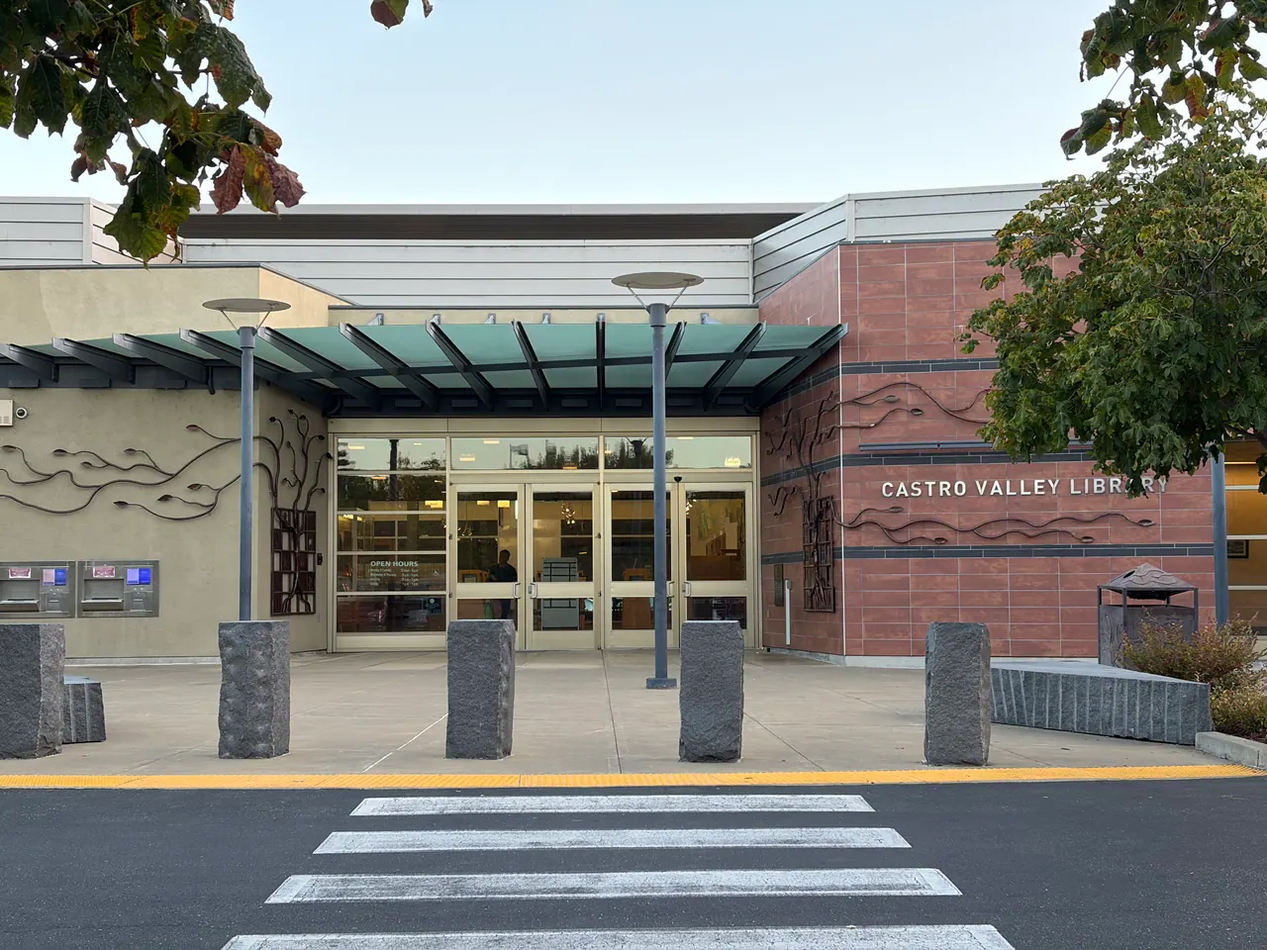
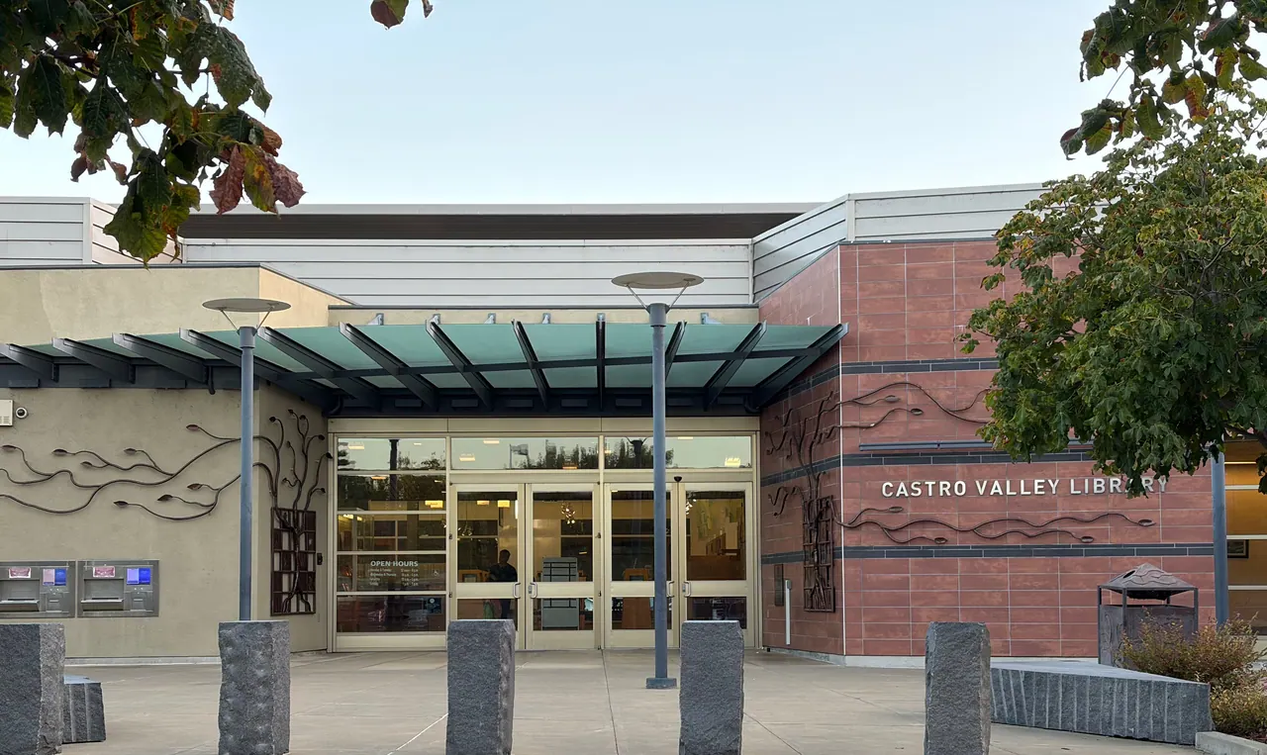
UI9-IMG-B2 review: approved crops, weak lead scenes, record drops, SF Main replaces the 2013 atrium on SFPL offers
- Five masters re-made from the lane's originals (no new download) with the framing the approval asks for: LumaFest altar
  3:2 (blown window cut), Danville scarecrow 3:2, Castro Valley without the crosswalk, Dimond without the road and the
  SIDEWALK CLOSED sign, the string-light tunnel at 16:9. Every rung now fits the budgets: the three new exceptions are gone,
  the cap is back at 25 and the tunnel leaves HEAVY_STOCK.
- Brisbane, Atherton and Calabazas venue photos ("cards and rows only", approval 31-33) join WEAK_LEAD_SCENES.
- record-photo-pins.json gains `drops` (pool pictures one record never takes): Windsor -4/-1, Cherryland storytime-4, and
  the two health guides never take each other's picture (second pictures pinned); Danville's ③ starts with the scarecrows.
- SFPL Discover & Go and radon-detector offers show venue-sf-main-library (2026) instead of the 2013 atrium; the SJPL
  Booktacular offer no longer shows the SF Main Library (its pool instead).
- Fruitvale caption no longer names who took the photo; the approval reference drops its local path.
- tests: record-photo-pins (order, cap, pin-only, live refs, health guides); weak scenes; close-up variable renamed.

(cherry picked from commit 275087b5a6b317f151a5a4d0278ca0276a80590c)

diff --git a/tests/record-photo-pins.test.ts b/tests/record-photo-pins.test.ts
@@ -1,0 +1,97 @@
+import assert from 'node:assert/strict';
+import { readFileSync } from 'node:fs';
+import test from 'node:test';
+import { COVER_TABLES, coverCandidates, idSpot, type CoverTables } from '../src/lib/cover-candidates';
+import { GUIDE_IMAGES } from '../src/data/guide-media';
+import pinFile from '../src/data/record-photo-pins.json';
+
+// UI9-IMG-B2 (review 10-23): record pins and drops (src/data/record-photo-pins.json). A pin with a typo, the wrong kind or a
+// renamed record does nothing at all, so the data is held against the live catalogs here.
+const tables: CoverTables = {
+  venues: [{ id: 'cupertino-library', name: 'Cupertino Library', match: ['Cupertino 图书馆'], imageKeys: ['venue-a'], approvedAt: '2026-10-23', ownerQuote: 'test' }],
+  categories: { storytime: ['s1', 's2', 's3', 's4'] },
+  ai: [{ key: 'ai-1', for: ['category:storytime'] }],
+  pins: { 'event:e1': ['pin-1', 'pin-2', 's3'] },
+  drops: { 'event:e1': ['s4'], 'event:e2': ['s1'] },
+};
+const story = { id: 'e1', title: 'Cupertino 图书馆周六亲子故事时间', venue: 'Cupertino 图书馆 101 室', category: 'family', imageKey: 'own' };
+
+test('① own → ② venue → pinned ③ → the rotated pool less its drops → ④', () => {
+  const keys = coverCandidates('event', story, tables);
+  assert.deepEqual(keys.slice(0, 5), ['own', 'venue-a', 'pin-1', 'pin-2', 's3'], 'pins come after ① and ②, in their order');
+  assert.deepEqual(keys.slice(5, 7).sort(), ['s1', 's2'], 'then the pool, each key once, without the dropped s4');
+  assert.deepEqual(keys.slice(7), ['ai-1']);
+  assert.ok(!keys.includes('s4'), 'a dropped pool picture never shows on that record');
+  // The pool's rotation starts on the pool less the drops.
+  const other = coverCandidates('event', { ...story, id: 'e2', imageKey: undefined }, tables);
+  assert.deepEqual(other.slice(0, 1), ['venue-a']);
+  assert.equal(other[1], ['s2', 's3', 's4'][idSpot('e2', 3)]);
+  assert.ok(!other.includes('s1') && !other.includes('pin-1'), 'drops and pins belong to their own record only');
+});
+
+test('pinned pictures do not count against the route\'s stock cap, and a pin-only picture never enters a pool', () => {
+  const capped = coverCandidates('event', story, { ...tables, pins: { 'event:e1': ['pin-1', 'pin-2'] } }, { stock: 1 });
+  assert.deepEqual(capped.slice(0, 4), ['own', 'venue-a', 'pin-1', 'pin-2']);
+  assert.equal(capped.length, 5, 'both pins plus one pool picture, and no ④ on a capped list');
+  assert.ok(['s1', 's2', 's3'].includes(capped[4]));
+  const pools = new Set(Object.values(COVER_TABLES.categories).flat());
+  for (const key of ['stock-lantern-1', 'stock-campus-open-day-1', 'stock-muni-1', 'stock-muni-2', 'stock-dumplings-1', 'stock-dumplings-2']) {
+    assert.ok(!pools.has(key), `${key}: pin-only, in no shared pool`);
+    assert.ok(Object.values(pinFile.pins).some(keys => keys.includes(key)), `${key}: pinned to a record`);
+  }
+});
+
+type Listed = { id: string; title?: string; category?: string; imageKey?: string; imageKeys?: string[] };
+const read = <T>(file: string) => JSON.parse(readFileSync(`src/data/generated/${file}`, 'utf8')) as T;
+const index = read<{ events: Listed[] }>('events-index.json');
+const later = read<{ events: Listed[] }>('events-later.json');
+const boards = read<{ offers: Listed[]; openings: Listed[] }>('events-boards.json');
+const guides = read<{ guides: (Listed & { slug: string })[] }>('guides-index.json').guides;
+const live: Record<string, Map<string, Listed>> = {
+  event: new Map([...later.events, ...index.events].map(event => [event.id, event])),
+  offer: new Map(boards.offers.map(offer => [offer.id, offer])),
+  opening: new Map(boards.openings.map(opening => [opening.id, opening])),
+  guide: new Map(guides.map(guide => [guide.slug, { ...guide, id: guide.slug }])),
+};
+const recordOf = (ref: string) => {
+  const [kind, id] = ref.split(/:(.*)/s);
+  return { kind, record: live[kind]?.get(id) };
+};
+
+test('every pin and drop names a live record and a registered stock picture; every pin reaches the catalogs', () => {
+  const tables = pinFile as { pins: Record<string, string[]>; drops: Record<string, string[]> };
+  assert.ok(Object.keys(tables.pins).length >= 17 && Object.keys(tables.drops).length >= 4);
+  for (const [ref, keys] of [...Object.entries(tables.pins), ...Object.entries(tables.drops)]) {
+    const { kind, record } = recordOf(ref);
+    assert.ok(record, `${ref}: a live ${kind} record`);
+    assert.ok(keys.length && new Set(keys).size === keys.length, `${ref}: keys listed once`);
+    for (const key of keys) assert.equal(GUIDE_IMAGES[key]?.rights?.basis, 'stock', `${ref}: ${key} is a registered stock (③) picture`);
+  }
+  for (const [ref, keys] of Object.entries(tables.pins)) {
+    const { kind, record } = recordOf(ref);
+    if (kind === 'guide') continue;
+    assert.ok(record!.imageKeys?.includes(keys[0]), `${ref}: the catalog ships its first pinned picture`);
+  }
+  for (const [ref, keys] of Object.entries(tables.drops)) {
+    const { kind, record } = recordOf(ref);
+    if (kind === 'guide') continue;
+    for (const key of keys) assert.ok(!record!.imageKeys?.includes(key), `${ref}: ${key} is dropped from its pictures`);
+  }
+});
+
+test('/guides (#68 live check): the Medicare guide shows pills, the dental guide the dental chair, never each other\'s', () => {
+  const candidates = (slug: string) => {
+    const guide = live.guide.get(slug)!;
+    return coverCandidates('guide', { id: slug, title: guide.title, category: guide.category });
+  };
+  const medicare = candidates('bay-area-medicare-hicap-medi-cal-guide');
+  const dental = candidates('bay-area-dental-care-insurance-low-cost-guide');
+  assert.equal(medicare[0], 'stock-guide-health-3');
+  assert.equal(dental[0], 'stock-guide-health-2');
+  assert.ok(!medicare.includes('stock-guide-health-2'), 'no dental chair on the Medicare guide');
+  assert.ok(!dental.includes('stock-guide-health-3'), 'no pills on the dental guide');
+  for (const [slug, key] of [['bay-area-medicare-hicap-medi-cal-guide', 'stock-guide-health-3'], ['bay-area-dental-care-insurance-low-cost-guide', 'stock-guide-health-2']]) {
+    const cover = (live.guide.get(slug) as unknown as { covers: Record<string, { src: string }> }).covers['zh-Hans'];
+    assert.ok(cover.src.endsWith(`/${key}.webp`), `${slug}: its built cover is ${key}`);
+  }
+});

diff --git a/src/lib/cover-candidates.ts b/src/lib/cover-candidates.ts
@@ -11,8 +11,9 @@ import type { CoverKind } from './cover';
  * tables are arguments with the reviewed files as defaults.
  *   ① the record's own image (`imageKey`)
  *   ② its venue's approved photos (src/data/venue-photos.json, approved once per venue)
- *   ③ the stock pictures pinned to this very record (src/data/record-photo-pins.json), then its photo category's stock
- *     pictures (src/data/category-photos.json), starting at a spot fixed by the record id
+ *   ③ the stock pictures pinned to this very record (src/data/record-photo-pins.json `pins`), then its photo category's
+ *     stock pictures (src/data/category-photos.json) less the ones dropped for this record (`drops`), starting at a spot
+ *     fixed by the record id
  *   ④ AI illustrations the owner approved for this record or its category (src/data/ai-cover-approvals.json `for`)
  * Whether each candidate may be shown (rights, age, page de-duplication) is still cover.ts getCover's call.
  */
@@ -31,6 +32,8 @@ export type CoverTables = {
   ai: readonly { key: string; for?: readonly string[] }[];
   /** ③ pictures pinned to one record ('<kind>:<id>'), shown before its category's pool (UI9-IMG-B2). */
   pins?: Readonly<Record<string, readonly string[]>>;
+  /** Pool pictures one record ('<kind>:<id>') never takes (UI9-IMG-B2 review: a reviewed fallback order that drops some). */
+  drops?: Readonly<Record<string, readonly string[]>>;
 };
 
 export const COVER_TABLES: CoverTables = {
@@ -38,6 +41,7 @@ export const COVER_TABLES: CoverTables = {
   categories: (categoryPhotoFile as { categories: Partial<Record<PhotoCategoryId, string[]>> }).categories,
   ai: (aiCoverApprovalFile as { approvals: { key: string; for?: string[] }[] }).approvals,
   pins: (recordPhotoPinFile as { pins: Record<string, string[]> }).pins,
+  drops: (recordPhotoPinFile as { drops: Record<string, string[]> }).drops,
 };
 
 /** The fields the candidates read: the record's id and own image, and the text that names its venue. */
@@ -59,7 +63,7 @@ export function venuesFor(kind: CoverKind, record: CandidateRecord, venues: Cove
 }
 
 /** Stock pictures over the image budgets' rungs (verify:images: 800 w ≤ 90 KB, 1200 w ≤ 150 KB): every other picture first. */
-export const HEAVY_STOCK: ReadonlySet<string> = new Set(['stock-halloween-5', 'stock-winter-holidays-8']);
+export const HEAVY_STOCK: ReadonlySet<string> = new Set(['stock-halloween-5']);
 
 /**
  * Macro and texture stock (UI9-R2, round-2 judge B P15 and owner material #2): a pattern or a close-up detail with no scene
@@ -140,9 +144,11 @@ export function coverCandidates(kind: CoverKind, record: CandidateRecord, tables
   const ownIsAi = !!record.imageKey && tables.ai.some(approval => approval.key === record.imageKey);
   if (!ownIsAi) add(record.imageKey);
   for (const venue of venuesFor(kind, record, tables.venues)) venue.imageKeys.forEach(add);
-  tables.pins?.[`${kind}:${record.id}`]?.forEach(add);
+  const ref = `${kind}:${record.id}`;
+  tables.pins?.[ref]?.forEach(add);
   const category = photoCategoryOf(kind, record);
-  const pool = category ? tables.categories[category] ?? [] : [];
+  const dropped = tables.drops?.[ref];
+  const pool = (category ? tables.categories[category] ?? [] : []).filter(key => !dropped?.includes(key));
   const start = (limits.start ?? idSpot(record.id, pool.length)) % (pool.length || 1);
   // A pool picture whose files miss the 800 w / 1200 w size targets goes after the others (B1b review: stock-halloween-5).
   const rotated = pool.map((_, i) => pool[(start + i) % pool.length]);
@@ -152,7 +158,7 @@ export function coverCandidates(kind: CoverKind, record: CandidateRecord, tables
   // A capped list (what a route ships) carries ④ only for a record whose category has no ③ picture.
   if (shown && stock !== Infinity) return keys;
   if (ownIsAi) add(record.imageKey);
-  const refs = [`${kind}:${record.id}`, ...(category ? [`category:${category}`] : [])];
+  const refs = [ref, ...(category ? [`category:${category}`] : [])];
   for (const approval of tables.ai) if (approval.for?.some(ref => refs.includes(ref))) add(approval.key);
   return keys;
 }

diff --git a/tests/ui9-img-a1a.test.ts b/tests/ui9-img-a1a.test.ts
@@ -6,7 +6,7 @@ import { MONTHLY_EVENTS } from '../src/data/monthly-edition';
 import { buildCanLead, getBuildWeekend } from '../src/lib/home-weekend-build';
 import { getCover, coverItemFor, type CoverKind } from '../src/lib/cover';
 import { leadsWithPicture } from '../src/lib/lead-rule';
-import { CLOSE_UP_FACE_IMAGES } from '../src/lib/close-up-faces';
+import { CLOSE_UP_FACE_IMAGES, NOT_FOR_LEAD, WEAK_LEAD_SCENE_IMAGES } from '../src/lib/close-up-faces';
 import { venuesFor, type CandidateRecord } from '../src/lib/cover-candidates';
 import { currentFreebies } from '../src/data/october-offers';
 import { currentOpenings } from '../src/data/local-discoveries';
@@ -77,14 +77,20 @@ test('the lead rule refuses a close-up face, a poster, AI and an information car
   // pages; DECISIONS 32 (round 2) keeps every one of them out of the lead slots, so the list holds the five still on the site
   // (UI9-IMG-B2 replaced LumaFest's posed volunteer photo with the festival's altar photo).
   assert.equal(CLOSE_UP_FACE_IMAGES.size, 5);
-  const lumaFest = { id: 'x', imageKey: 'official-sausalito-goblin-jamboree-2026' };
-  assert.equal(leadsWithPicture(lumaFest, context), false, 'a released close-up still never leads');
-  assert.equal(leadsWithPicture(lumaFest, context, new Set()), true, 'off the list, the photo would lead');
+  const closeUp = { id: 'x', imageKey: 'official-sausalito-goblin-jamboree-2026' };
+  assert.equal(leadsWithPicture(closeUp, context), false, 'a released close-up still never leads');
+  assert.equal(leadsWithPicture(closeUp, context, new Set()), true, 'off the list, the photo would lead');
   assert.equal(leadsWithPicture({ id: 'x', imageKey: 'weekend' }, context), false, 'an AI illustration never leads');
   assert.equal(leadsWithPicture({ id: 'x' }, context), false, 'an information card never leads');
   assert.equal(leadsWithPicture({ id: 'x', imageKey: 'weekend', imageKeys: ['weekend', 'venue-sap-center'] }, context), true, 'a venue photo leads');
   // The Chase Center corner photo (half sky) is a weak lead scene (UI9-IMG-B2): fine on a card, never a lead.
-  assert.equal(leadsWithPicture({ id: 'x', imageKey: 'weekend', imageKeys: ['weekend', 'roundup-chase-center'] }, context), false, 'a weak venue scene never leads');
+  // So are the three "cards and rows only" venue photos of the B2 approval (items 31–33: Brisbane, Atherton, Calabazas).
+  assert.deepEqual([...WEAK_LEAD_SCENE_IMAGES].sort(), ['roundup-chase-center', 'venue-sjpl-calabazas-library', 'venue-smcl-atherton-library', 'venue-smcl-brisbane-library']);
+  for (const key of WEAK_LEAD_SCENE_IMAGES) {
+    assert.equal(GUIDE_IMAGES[key]?.kind, 'photo', `${key}: a registered photo`);
+    assert.ok(NOT_FOR_LEAD.has(key), `${key}: on the lead skip list`);
+    assert.equal(leadsWithPicture({ id: 'x', imageKey: 'weekend', imageKeys: ['weekend', key] }, context), false, `${key}: a weak venue scene never leads`);
+  }
   assert.equal(leadsWithPicture({ id: 'x', imageKey: 'official-mcm-halloween-spectacular-20261031' }, context), false, 'a poster never leads (DECISIONS 32)');
   assert.equal(leadsWithPicture({ id: 'x', imageKey: 'official-oakland-omca-dia-muertos-2026' }, context), true, 'an official photo leads');
 });

diff --git a/src/lib/close-up-faces.ts b/src/lib/close-up-faces.ts
@@ -47,6 +47,10 @@ const POSED_GROUPS = [
  */
 const WEAK_LEAD_SCENES = [
   'roundup-chase-center', // Chase Center: a corner of the building and half sky; reads as neither the arena nor a game
+  // B2 approval items 31–33, "cards and rows only":
+  'venue-smcl-brisbane-library', // Brisbane Library: 1250 × 598, too small for a lead
+  'venue-smcl-atherton-library', // Atherton Library: the entrance lettering is the subject
+  'venue-sjpl-calabazas-library', // Calabazas Branch: 1024 × 768, a wall of cast names fills a third of it
 ];
 
 /** Every flagged close-up, released or not: none of them takes a lead slot (DECISIONS 32). */
@@ -55,12 +59,12 @@ export const CLOSE_UP_FACE_IMAGES: ReadonlySet<string> = new Set(FLAGGED_CLOSE_U
 export const RELEASED_CLOSE_UPS: ReadonlySet<string> = new Set(FLAGGED_CLOSE_UPS.filter(key => OWNER_RELEASED.has(key)));
 /** Posed group portraits that fill the frame. */
 export const POSED_GROUP_IMAGES: ReadonlySet<string> = new Set(POSED_GROUPS);
+/** Venue photos too weak to lead (WEAK_LEAD_SCENES; tests read it). */
+export const WEAK_LEAD_SCENE_IMAGES: ReadonlySet<string> = new Set(WEAK_LEAD_SCENES);
 /**
  * The pictures no lead slot shows (close-ups, posed groups and weak venue scenes). Posters, flyers and AI pictures are kept off a lead by
  * their kind in cover.ts (a lead takes only a photographic ① or ②), so they are not listed here.
  */
-/** Venue photos too weak to lead (WEAK_LEAD_SCENES). */
-export const WEAK_LEAD_SCENE_IMAGES: ReadonlySet<string> = new Set(WEAK_LEAD_SCENES);
 export const NOT_FOR_LEAD: ReadonlySet<string> = new Set([...FLAGGED_CLOSE_UPS, ...POSED_GROUPS, ...WEAK_LEAD_SCENES]);
 
 /**

diff --git a/src/data/october-offers-extra.ts b/src/data/october-offers-extra.ts
@@ -36,7 +36,7 @@ export const additionalOctoberOffers: VerifiedExtraOffer[] = [
     availability: 'ongoing', kind: 'reservation',
     requirement: '持 SFPL 图书证借用，可在线预约；设备先到先得，最长借期 21 天，用后须归还。',
     description: '图书馆 2026 年新增的家用设备服务，所有分馆均可办理，归还可到任一分馆。先查馆藏与预约队列，免费的是借用设备。',
-    imageKey: 'library', imageNote: 'SFPL 馆舍资料照片，非探测器或现有库存', sourceUrl: 'https://sfpl.org/releases/2026/07/15/free-radon-detector-loan-program-promote-home-safety',
+    imageKey: 'venue-sf-main-library', imageNote: 'SFPL 馆舍资料照片，非探测器或现有库存', sourceUrl: 'https://sfpl.org/releases/2026/07/15/free-radon-detector-loan-program-promote-home-safety',
     sourceLabel: 'SFPL 免费设备借用公告', verifiedAt: '2026-09-15',
   },
   {

diff --git a/src/data/october-offers.ts b/src/data/october-offers.ts
@@ -106,7 +106,7 @@ export const newOctoberOffers: FreebieOffer[] = [
     dateLabel: '长期福利 · 先查可预约日期', availability: 'ongoing', kind: 'reservation',
     requirement: 'SF 居民持 SFPL 图书证，通过 Discover & Go 预约；具体年龄、人数与入场凭证按所选场馆条款。',
     description: '九月下半月和整个十月都可查询可用日期，不保证每一天都有票。先登录选场馆，再确认人数与是否须打印，图书馆也可协助打印。',
-    imageKey: 'library', sourceUrl: 'https://sfpl.org/discover-and-go', sourceLabel: 'SFPL Discover & Go 资格与入口',
+    imageKey: 'venue-sf-main-library', sourceUrl: 'https://sfpl.org/discover-and-go', sourceLabel: 'SFPL Discover & Go 资格与入口',
   },
   {
     id: 'smcl-discover-go', brand: 'SAN MATEO COUNTY LIBRARIES', title: '半岛图书证，先核对卡号再借门票',

diff --git a/tests/image-manifest.test.ts b/tests/image-manifest.test.ts
@@ -61,9 +61,7 @@ test('every rung exists, is a resize of its original (never upscaled or reframed
     }
     for (const candidate of image.srcset) assert.ok(existsSync(new URL(`../public${candidate.split(' ')[0]}`, import.meta.url)), candidate);
   }
-  // 27 since UI9-IMG-B2 (10-23): the string-lights stock picture (800 w and 1200 w) and the Danville scarecrow's 1200 w do not
-  // fit at q40; a lower master quality does not shrink them (measured q78/q70/q62), so they are listed with their reasons.
-  assert.ok(exceptions.length <= 27, 'budget exceptions stay a short, reviewed list');
+  assert.ok(exceptions.length <= 25, 'budget exceptions stay a short, reviewed list');
 });
 
 test('rungs follow the bytes: pages that show an image get 800/1200 files only where the original is over budget', t => {

diff --git a/src/data/late-september-local.ts b/src/data/late-september-local.ts
@@ -121,7 +121,6 @@ export const lateSeptemberLocalOffers: FreebieOffer[] = [
     "kind": "no-purchase",
     "requirement": "0–18 岁本人到 SJPL 分馆领取，每人限一本；家长不能代领。无需图书证、报名或参加活动，也不必穿变装。",
     "description": "官方 2026 Booktacular 已公布领取周。可选书不限万圣节题材，库存依现场；先查分馆营业与临时关闭，不保证每一馆都剩同样书目。",
-    "imageKey": "library",
     "sourceUrl": "https://www.sjpl.org/news/halloween-booktacular-giveaway-2026/",
     "sourceLabel": "SJPL 2026 赠书公告与领取条件",
     "storeUrl": "https://www.sjpl.org/locations-table/",

diff --git a/docs/b2-media-sources-2026-10-23.md b/docs/b2-media-sources-2026-10-23.md
@@ -6,18 +6,20 @@ slots take only photographic ①/②) and 33 (who approves a batch).
 **Approval.** Owner, BAYLINK captain chat 2026-10-23 ~01:10 PT (DECISIONS 33): 「關於圖片方面，只要你分析過後，覺得合適，更好，就可以通過」.
 Under it the captain approved this batch on 2026-10-23 after an independent skeptic check of every picture (rights, licence,
 fit, quality, faces, text and logos, season) and a captain recheck of licences and dates (Wikimedia Commons API, EXIF, page
-dates): `opus-qa/overhaul/lanes/UI9-IMG-B2/APPROVAL-B2-1023.md` and `approved-b2-1023.json`. 41 pictures approved
+dates): the captain's B2 approval record of 2026-10-23 (approval page and its item list). 41 pictures approved
 (③ 20, ② 16, ① 5); 82 candidates rejected and the gaps listed there were not touched.
 
 **Downloads.** Only the 41 approved `imageUrl`s, one at a time about 4 s apart, on 2026-10-23 13:46–13:49 PT. Each download
 record (scripts/data/category-stock-photos-downloads.json, venue-photo-media-downloads.json, official-event-media-downloads.json)
 keeps the approval reference, page URL, original URL, time, content type, bytes, SHA-256 and SHA-1. Nothing else was fetched.
 
-**Processing.** Resized to at most 1280 px wide and 1600 px tall (never upscaled, never cropped), EXIF orientation applied,
-WebP q78 with metadata stripped. `npm run images:variants` adds the 480 w file, the 800/1200 rungs and the placeholder colour.
-Three rungs stay over the size targets at the lowest quality step and are listed in scripts/data/image-budget-exceptions.json
-(stock-winter-holidays-8 800 w and 1200 w: string lights; the Danville scarecrow 1200 w: straw and hay); the heavy stock
-picture goes last in its pool (cover-candidates.ts HEAVY_STOCK).
+**Processing.** Resized to at most 1280 px wide and 1600 px tall (never upscaled), EXIF orientation applied, WebP q78 with
+metadata stripped. Five are cropped from the original as the approval asks (review 2026-10-23, no new download): the
+LumaFest altar 3:2 around mid-altar with the blown window top cut (1280 × 853), the Danville scarecrow 3:2 keeping the hat
+(1080 × 720), the Castro Valley Library without the crosswalk and road (1280 × 763), the Dimond Branch without the road and
+the orange SIDEWALK CLOSED sign (1280 × 667) and the string-light tunnel at 16:9 (1280 × 720). `npm run images:variants`
+adds the 480 w file, the 800/1200 rungs and the placeholder colour; every rung of this batch fits the size targets
+(no new entry in scripts/data/image-budget-exceptions.json).
 
 **Labels and credits.** ③ 示意图 / Illustrative photo, credit 「示意图 · 摄影 <author> / Unsplash|Pexels」. ② 场馆照 · <year>,
 credit names the author, Wikimedia Commons and the licence for CC files (CC BY / BY-SA attribution and 「已缩放压缩，按版面裁切」),
@@ -35,7 +37,7 @@ venue-page ② photos are promoAllowed false.
 | 3 | `stock-campus-open-day-1` | [page](https://unsplash.com/photos/old-brick-building-surrounded-by-vibrant-autumn-foliage-M9VhxlGuyRw) | Cloris Ying (@clorisyy) | Unsplash License | uploaded 2026-06-07; EXIF Sony ILCE-7RM2 | stock · promo yes | [50, 50] | pinned to `event:berkeley-college-information-day-2026` | 13:46:10 |
 | 4 | `stock-diwali-5` | [page](https://www.pexels.com/photo/people-sprinkling-colored-powder-5491495/) | Nishant Aneja | Pexels License | uploaded 2020-10-01 (pre-photoreal-AI) | stock · promo yes | [55, 45] | pool `diwali` | 13:46:15 |
 | 5 | `stock-diwali-6` | [page](https://unsplash.com/photos/marigold-and-jasmine-flower-garlands-V15kJDxvqKk) | Sangram Rakate (@najaratonajaria) | Unsplash License | uploaded 2026-09-21; EXIF Sony ILCE-7M3 | stock · promo yes | [50, 50] | pool `diwali` | 13:46:19 |
-| 6 | `stock-winter-holidays-8` | [page](https://unsplash.com/photos/pathway-decorated-with-glowing-string-lights-at-night-xCCWAxAzUFo) | note thanun (@notethanun) | Unsplash License | uploaded 2026-01-09; EXIF Google Pixel 6 | stock · promo yes | [50, 45] | pool `winter-holidays`; pinned to `event:sfzoo-zoolights-2026` | 13:46:24 |
+| 6 | `stock-winter-holidays-8` | [page](https://unsplash.com/photos/pathway-decorated-with-glowing-string-lights-at-night-xCCWAxAzUFo) | note thanun (@notethanun) | Unsplash License | uploaded 2026-01-09; EXIF Google Pixel 6 | stock · promo yes | [50, 50] (16:9 crop) | pool `winter-holidays`; pinned to `event:sfzoo-zoolights-2026` | 13:46:24 |
 | 7 | `stock-muni-1` | [page](https://www.pexels.com/photo/red-and-white-tram-on-street-13241427/) | Justin L U C K (@Justyzvidz) | Pexels License | uploaded 2022-08-16 | stock · promo yes | [60, 55] | pinned to `offer:sfmta-free-muni-seniors`, `offer:chase-center-ticket-muni-included`, `offer:muni-youth-free` | 13:46:29 |
 | 8 | `stock-muni-2` | [page](https://unsplash.com/photos/red-and-gray-train-interior-yhFdxUYkgA8) | Josh Wilburne (@joshwilburne) | Unsplash License | uploaded 2018-01-05; EXIF Sony ILCE-7 | stock · promo yes | [50, 50] | pinned to `offer:sfmta-free-muni-seniors`, `offer:chase-center-ticket-muni-included`, `offer:muni-youth-free` | 13:46:34 |
 | 9 | `stock-dumplings-1` | [page](https://unsplash.com/photos/person-making-dumplings-rioTUXsDImc) | Frank Zhang (@frankzphoto) | Unsplash License | uploaded 2019-10-09; EXIF Canon EOS 5D Mark IV | stock · promo yes | [45, 50] | pinned to `event:sf-world-of-dumplings-2026` | 13:46:38 |
@@ -53,15 +55,17 @@ venue-page ② photos are promoAllowed false.
 
 Pin-only pictures (not in a shared pool): the lantern, the campus open day, the two Muni pictures (only the three SFMTA /
 Muni offers, never the transit pool) and the two dumpling pictures. src/data/record-photo-pins.json also holds the
-reviewed fallback orders that needed no download (approved-b2-1023.json `dataOnly`): Financial Planning Day, Windsor's
-trick-or-treat trail, the Western Addition open house and the Cherryland storytimes. No first-aid pool: no CPR picture
+reviewed fallback orders that needed no download (the approval's data-only decisions): Financial Planning Day, Windsor's
+trick-or-treat trail, the Western Addition open house and the Cherryland storytimes; its `drops` keep the pictures those
+decisions left out off the record (Windsor: stock-halloween-4 and -1; Cherryland: stock-storytime-4), and the two health
+guides never take each other's picture. Danville's ③ fallback starts with the two-scarecrows picture (stock-pumpkin-harvest-5). No first-aid pool: no CPR picture
 was approved.
 
 ## ② Venue photos (16)
 
 | # | Key | Source | Author | Licence | Year | Rights | Focal | Use | Downloaded (PT) |
 |---|---|---|---|---|---|---|---|---|---|
-| 21 | `venue-sf-main-library` | [page](https://commons.wikimedia.org/wiki/File:SFPL_Main_Branch_atrium_ceiling.jpg) | ECTran71 | CC BY-SA 4.0 | 2026 (EXIF 2026-01-24) | cc · promo no | [50, 45] | venue `sf-main-library` (match 100 Larkin, SF Main Library, San Francisco Main Library) | 13:47:33 |
+| 21 | `venue-sf-main-library` | [page](https://commons.wikimedia.org/wiki/File:SFPL_Main_Branch_atrium_ceiling.jpg) | ECTran71 | CC BY-SA 4.0 | 2026 (EXIF 2026-01-24) | cc · promo no | [50, 45] | venue `sf-main-library` (match 100 Larkin, SF Main Library, San Francisco Main Library); also the own image of the SFPL Discover & Go and radon-detector offers (replaces the 2013 atrium photo there) | 13:47:33 |
 | 22 | `venue-sap-center` | [page](https://commons.wikimedia.org/wiki/File:SAP_Center_in_San_Jose_(52194580276).jpg) | Daniel Ramirez | CC BY 2.0 | 2022 (EXIF 2022-06-10) | cc · promo no | [45, 50] | venue `sap-center` (match SAP Center) | 13:47:37 |
 | 23 | `venue-exploratorium` | [page](https://commons.wikimedia.org/wiki/File:Pier_15_(San_Francisco)_July_2022.JPG) | Benoît Prieur | CC0 1.0 | 2022 (EXIF 2022-07-19) | cc · promo yes | [50, 50] | venue `exploratorium` (match Exploratorium) | 13:47:42 |
 | 24 | `venue-ferry-building` | [page](https://commons.wikimedia.org/wiki/File:Ferry_Building_July_2022_(2).JPG) | Benoît Prieur | CC0 1.0 | 2022 (EXIF 2022-07-19) | cc · promo yes | [50, 40] | venue `ferry-building` (match Ferry Building, 1 Ferry Building, Ferry Plaza) | 13:47:47 |
@@ -71,12 +75,12 @@ was approved.
 | 28 | `venue-fort-mason-center` | [page](https://commons.wikimedia.org/wiki/File:Fort_Mason_in_December_2025_-_01.jpeg) | David Lee | CC BY 4.0 | 2025 (EXIF 2025-11-14) | cc · promo no | [40, 55] | venue `fort-mason-center` (match Fort Mason Center) | 13:48:04 |
 | 29 | `venue-smcl-millbrae-library` | [page](https://commons.wikimedia.org/wiki/File:Millbrae_Library,_exterior_(October_2024)_01.jpg) | BriefEdits | CC BY-SA 4.0 | 2024 (EXIF 2024-10-26) | cc · promo no | [45, 55] | venue `smcl-millbrae-library` (match Millbrae 图书馆, Millbrae Library; records event:smcl-millbrae-chinese-storytime-oct-2026, event:smcl-millbrae-chinese-culture-club-ai-nov7-2026) | 13:48:09 |
 | 30 | `venue-smcl-foster-city-library` | [page](https://commons.wikimedia.org/wiki/File:Foster_City_Library,_exterior_(November_2024)_02.jpg) | BriefEdits | CC BY-SA 4.0 | 2024 (EXIF 2024-11-09) | cc · promo no | [50, 55] | venue `smcl-foster-city-library` (match Foster City 图书馆, Foster City Library; records event:smcl-foster-city-nidhi-chanani-2026, event:smcl-foster-city-maker-exploration-2026) | 13:48:13 |
-| 31 | `venue-smcl-brisbane-library` | [page](https://smcl.org/locations/1R/) | San Mateo County Libraries (photographer not named) | official location-page photo; no licence stated | 2021 (building opened 2021-04-22; file 2021-09-21) | promo-editorial · promo no | [50, 50] | venue `smcl-brisbane-library` (match Brisbane 图书馆, Brisbane Library) | 13:48:18 |
-| 32 | `venue-smcl-atherton-library` | [page](https://commons.wikimedia.org/wiki/File:Atherton_Library_Entrance.jpg) | BrokenSegue | CC BY-SA 4.0 | 2026 (EXIF 2026-10-21) | cc · promo no | [50, 50] | venue `smcl-atherton-library` (match Atherton 图书馆, Dinkelspiel Station; records event:smcl-atherton-diwali-henna-2026, event:smcl-atherton-maker-families-2026) | 13:48:22 |
-| 33 | `venue-sjpl-calabazas-library` | [page](https://commons.wikimedia.org/wiki/File:Calabazas_Branch_Library_0432.jpg) | Cristiano Tomás | CC BY-SA 4.0 | 2021 (2021-03-31) | cc · promo no | [50, 50] | venue `sjpl-calabazas-library` (match Calabazas 分馆, Calabazas Branch) | 13:48:26 |
+| 31 | `venue-smcl-brisbane-library` | [page](https://smcl.org/locations/1R/) | San Mateo County Libraries (photographer not named) | official location-page photo; no licence stated | 2021 (building opened 2021-04-22; file 2021-09-21) | promo-editorial · promo no | [50, 50] | venue `smcl-brisbane-library` (match Brisbane 图书馆, Brisbane Library); cards and rows only, never a lead (close-up-faces.ts WEAK_LEAD_SCENES) | 13:48:18 |
+| 32 | `venue-smcl-atherton-library` | [page](https://commons.wikimedia.org/wiki/File:Atherton_Library_Entrance.jpg) | BrokenSegue | CC BY-SA 4.0 | 2026 (EXIF 2026-10-21) | cc · promo no | [50, 50] | venue `smcl-atherton-library` (match Atherton 图书馆, Dinkelspiel Station; records event:smcl-atherton-diwali-henna-2026, event:smcl-atherton-maker-families-2026); cards and rows only, never a lead (close-up-faces.ts WEAK_LEAD_SCENES) | 13:48:22 |
+| 33 | `venue-sjpl-calabazas-library` | [page](https://commons.wikimedia.org/wiki/File:Calabazas_Branch_Library_0432.jpg) | Cristiano Tomás | CC BY-SA 4.0 | 2021 (2021-03-31) | cc · promo no | [50, 50] | venue `sjpl-calabazas-library` (match Calabazas 分馆, Calabazas Branch); cards and rows only, never a lead (close-up-faces.ts WEAK_LEAD_SCENES) | 13:48:26 |
 | 34 | `venue-sccl-campbell-library` | [page](https://sccld.org/locations/campbell/) | Santa Clara County Library District (photographer not named) | official location-page photo; no licence stated | 2026 (file CampbellLibrary2026, 2026-04-06) | promo-editorial · promo no | [50, 50] | venue `sccl-campbell-library` (match Campbell 图书馆, Campbell Library; records event:sccl-campbell-scam-calls-workshop-2026, event:sccl-campbell-friends-book-sale-nov14-2026) | 13:48:31 |
-| 35 | `venue-acl-castro-valley-library` | [page](https://commons.wikimedia.org/wiki/File:Castro_Valley_Library,_exterior_(September_2026)_01.jpg) | BriefEdits | CC BY-SA 4.0 | 2026 (EXIF 2026-09-15, iPhone 17) | cc · promo no | [50, 50] | venue `acl-castro-valley-library` (match Castro Valley 图书馆, Castro Valley Library; records event:acl-castro-valley-military-records-2026) | 13:48:36 |
-| 36 | `venue-opl-dimond-library` | [page](https://commons.wikimedia.org/wiki/File:Oakland_Public_Library_Dimond_Branch,_exterior_(September_2026).jpg) | BriefEdits | CC BY-SA 4.0 | 2026 (EXIF 2026-09-15, iPhone 17) | cc · promo no | [45, 55] | venue `opl-dimond-library` (match Dimond 分馆, Dimond Branch; records event:opl-dimond-kids-arts-crafts-2026) | 13:48:41 |
+| 35 | `venue-acl-castro-valley-library` | [page](https://commons.wikimedia.org/wiki/File:Castro_Valley_Library,_exterior_(September_2026)_01.jpg) | BriefEdits | CC BY-SA 4.0 | 2026 (EXIF 2026-09-15, iPhone 17) | cc · promo no | [50, 45] (crosswalk cropped) | venue `acl-castro-valley-library` (match Castro Valley 图书馆, Castro Valley Library; records event:acl-castro-valley-military-records-2026) | 13:48:36 |
+| 36 | `venue-opl-dimond-library` | [page](https://commons.wikimedia.org/wiki/File:Oakland_Public_Library_Dimond_Branch,_exterior_(September_2026).jpg) | BriefEdits | CC BY-SA 4.0 | 2026 (EXIF 2026-09-15, iPhone 17) | cc · promo no | [50, 50] (road and sign cropped) | venue `opl-dimond-library` (match Dimond 分馆, Dimond Branch; records event:opl-dimond-kids-arts-crafts-2026) | 13:48:41 |
 
 Retired where a photo above replaces them (DECISIONS 22's 8-year rule): `roundup-sap-center` (2014) on the four SAP Center
 events and the city update, `region-omca` (2012) on the OMCA events, offers and the Lake Merritt + OMCA guide, and
@@ -87,11 +91,11 @@ card of the regional map (places are outside this batch).
 
 | # | Key | Source | Author | Licence | Year | Rights | Focal | Use | Downloaded (PT) |
 |---|---|---|---|---|---|---|---|---|---|
-| 38 | `official-r2-petaluma-lumafest-20261024` | [page](https://lumafest.santarosa.edu/) | SRJC LumaFest (photographer not named) | organiser's own page; no licence stated | 2025 (EXIF 2025-10-18) → label 官方图 · 2025 往届 | promo-editorial · promo no | [50, 55] | own image of `event:r2-petaluma-lumafest-20261024` | 13:48:45 |
+| 38 | `official-r2-petaluma-lumafest-20261024` | [page](https://lumafest.santarosa.edu/) | SRJC LumaFest (photographer not named) | organiser's own page; no licence stated | 2025 (EXIF 2025-10-18) → label 官方图 · 2025 往届 | promo-editorial · promo no | [50, 50] (3:2 crop) | own image of `event:r2-petaluma-lumafest-20261024` | 13:48:45 |
 | 39 | `official-san-jose-avenida-altares-2026` | [page](https://mhplaza.org/allevents/avenida26) | Mexican Heritage Plaza (photographer not named) | organiser's own page; no licence stated | 2025 (file 2025-11-01) → 官方图 · 2025 往届 | promo-editorial · promo no | [50, 30] | own image of `event:san-jose-avenida-altares-2026` | 13:48:49 |
 | 40 | `official-nov2026-fruitvale-dia-muertos` | [page](https://unitycouncil.org/lacatrina/) | The Unity Council (organiser; photographer not named) | organiser's own page; no licence stated | 2026 (uploaded 2026-09) | promo-editorial · promo no | [50, 30] | own image of `event:nov2026-fruitvale-dia-muertos` | 13:48:53 |
 | 41 | `official-pleasanton-pumpkins-after-dark-2026` | [page](https://pumpkinsafterdark.com/) | Pumpkins After Dark (event producer; photographer not named) | organiser's own page; no licence stated | not stated → label 官方图 (no year) | promo-editorial · promo no | [50, 50] | own image of `event:pleasanton-pumpkins-after-dark-2026` | 13:48:58 |
-| 42 | `official-danville-scarecrow-stroll-2026` | [page](https://danville.ca.gov/851/Scarecrow-Stroll) | Town of Danville (photographer not named) | organiser's own page; no licence stated | not stated (uploaded with the 2026 banner) → label 官方图 | promo-editorial · promo no | [50, 35] | own image of `event:danville-scarecrow-stroll-2026` | 13:49:03 |
+| 42 | `official-danville-scarecrow-stroll-2026` | [page](https://danville.ca.gov/851/Scarecrow-Stroll) | Town of Danville (photographer not named) | organiser's own page; no licence stated | not stated (uploaded with the 2026 banner) → label 官方图 | promo-editorial · promo no | [40, 20] (3:2 crop) | own image of `event:danville-scarecrow-stroll-2026` | 13:49:03 |
 
 Four replace an older official image of the same event in place (same key, new file; the old files are deleted): LumaFest's
 posed volunteer photo (it also leaves the close-up list), the Avenida de los Altares text poster, the Pumpkins After Dark
